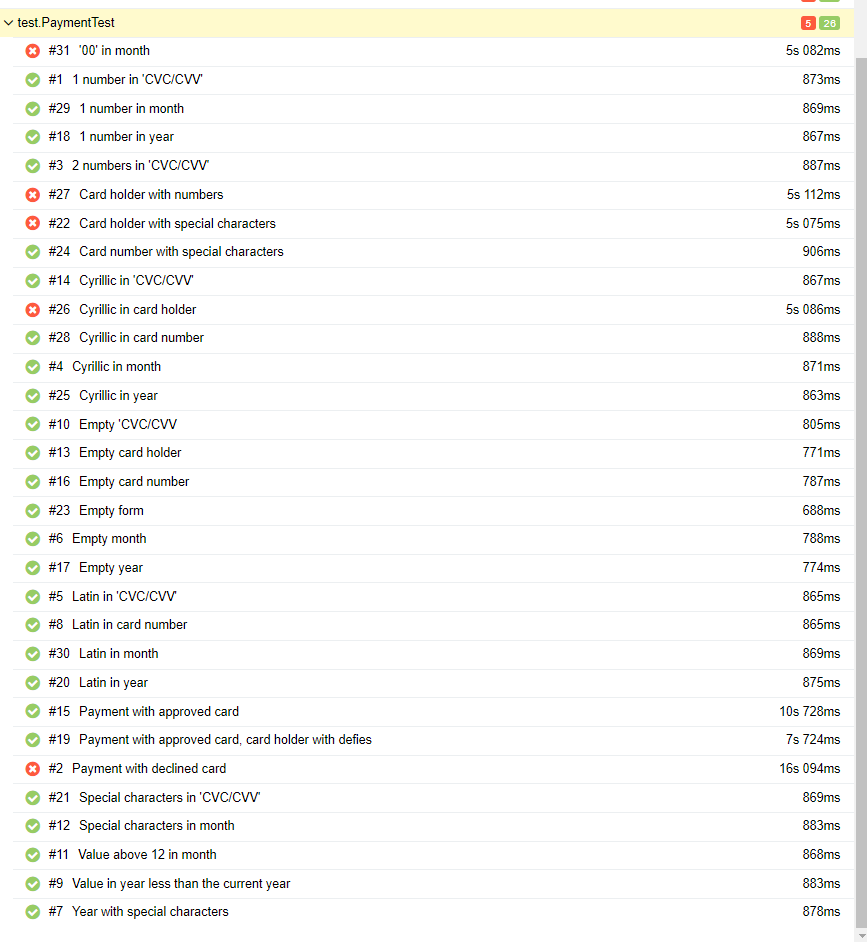
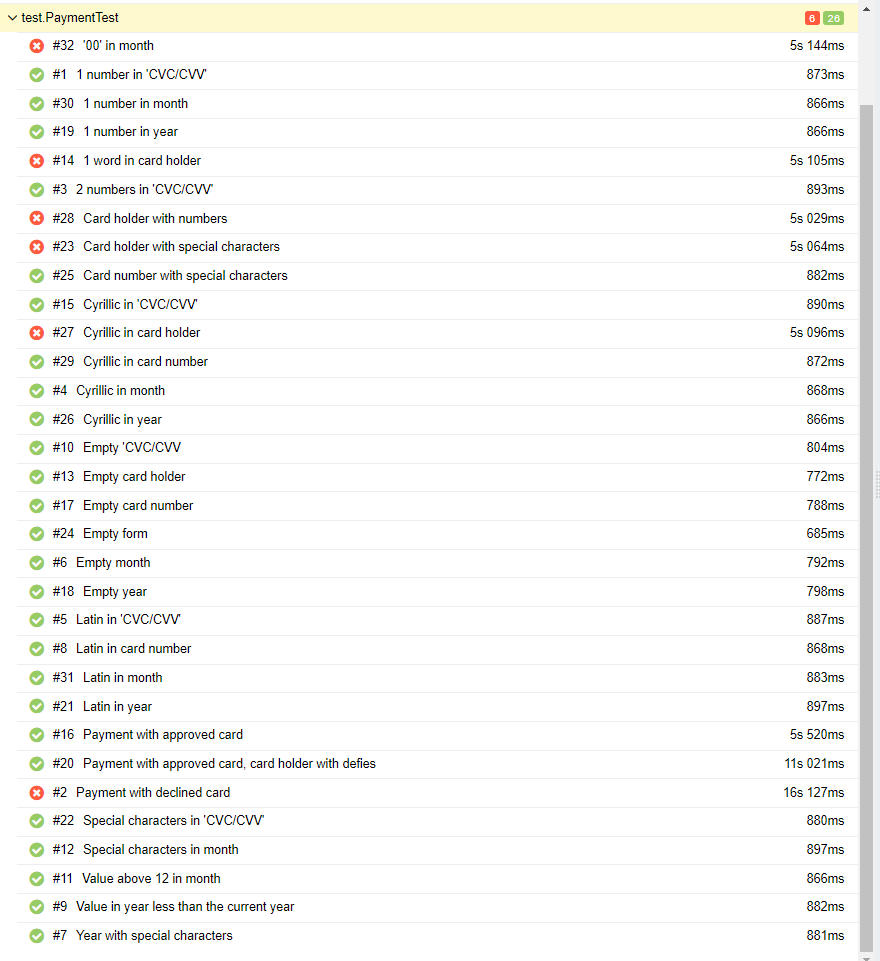
add 1 test, allure report, report.md, summarry.md

Changed region(s): [[0.0, 0.0, 1.0, 1.0]]

diff --git a/src/test/java/test/CreditTest.java b/src/test/java/test/CreditTest.java
@@ -111,6 +111,17 @@ public class CreditTest {
         assertEquals("0", DataBase.getOrderCount());
     }
     @Test
+    @DisplayName("1 word in  card holder")
+    public void With1WordInCardHolder() {
+        val tp = new TourPage();
+        val form = tp.goToCreditPage();
+        form.inputData(DataHelper.getEmptyCardHolder());
+        form.setCardHolder("Ivanov");
+        form.pushContinueButton();
+        form.massageWrongFormat();
+        assertEquals("0", DataBase.getOrderCount());
+    }
+    @Test
     @DisplayName("Card holder with numbers")
     public void WithNumbersInCardHolder() {
         val tp = new TourPage();
@@ -184,7 +195,7 @@ public class CreditTest {
         form.inputData(DataHelper.getEmptyMonthNumber());
         form.setCardMonth("00");
         form.pushContinueButton();
-        form.massageWrongFormat();
+        form.massageWrongCardValidity();
         assertEquals("0", DataBase.getOrderCount());
     }
     @Test

diff --git a/src/test/java/test/PaymentTest.java b/src/test/java/test/PaymentTest.java
@@ -116,6 +116,17 @@ public class PaymentTest {
         form.massageWrongFormat();
         assertEquals("0", DataBase.getOrderCount());
     }
+    @Test
+    @DisplayName("1 word in  card holder")
+    public void With1WordInCardHolder() {
+        val tp = new TourPage();
+        val form = tp.goToBuyPage();
+        form.inputData(DataHelper.getEmptyCardHolder());
+        form.setCardHolder("Ivanov");
+        form.pushContinueButton();
+        form.massageWrongFormat();
+        assertEquals("0", DataBase.getOrderCount());
+    }
 
     @Test
     @DisplayName("Card holder with numbers")
@@ -192,7 +203,7 @@ public class PaymentTest {
         form.inputData(DataHelper.getEmptyMonthNumber());
         form.setCardMonth("00");
         form.pushContinueButton();
-        form.massageWrongFormat();
+        form.massageWrongCardValidity();
         assertEquals("0", DataBase.getOrderCount());
     }
     @Test

diff --git a/documents/Summary.md b/documents/Summary.md
@@ -1,0 +1,22 @@
+# Отчёт по итогам автоматизации
+
+## Запланировано/Сделано
+Было запланировано:
+1. Автоматизировать позитивные и негативные сценарии тестирования работы сервисов покупки тура и покупки тура в кредит.
+1. Протестировать поля форм.
+1. Протестировать поддержку СУБД MySQL и PostgreSQL.
+
+Сделаны всё запланированные тесты.
+
+## Сработавшие риски
+1. Сложности с запуском приложения и подключением к БД.
+1. Отсутствовали уникальные css-селекторы.
+
+
+## Общий итог по времени
+1. Планирование автоматизации тестирования - 19.10 - 21.10 / факт 21.10 (4 часа)
+1. Настройка окружения, написание и отладка автотестов, тестирование - 22.10 - 10.11 / факт 02.11 (20 часов)
+1. Подготовка отчетов о проделанной работе - 11.11 - 17.11 / факт 03.11 (4 часа)
+
+Настройка окружения, написание и отладка автотестов, тестирование - основной проблемой было найти ошибку из-за которой приложение не запускалось с подключением к БД.
+Подготовка тестовой документации оказалась менее времязатратной, чем изначально планировалось.

diff --git a/documents/Plan.md b/documents/Plan.md
@@ -359,7 +359,7 @@
     Нажать кнопку Продолжить
 * Ожидаемый результат: запрос обрабатывается, появляется сообщение "Ошибка! Банк отказал в проведении операции".
 ## Перечень используемых инструментов
-1. IntelliJ IDEA 2022.1.2 (Community Edition) как среда разработки.
+1. IntelliJ IDEA 2022.2 (Community Edition) как среда разработки.
 2. Браузер Chrome - для работы со страницей.
 3. Docker - для контейнеризации СУБД и Node.js.
 4. GitHub - для хранения и демонстрации работы.
@@ -367,7 +367,6 @@
 6. JUnit. Библиотека для написания и запуска авто-тестов.
 7. Gradle - Система управления зависимостями, которая позволит удобно ставить необходимые фреймворки.
 8. Allure - Фреймворк, предназначенный для создания отчетов о выполнении тестов.
-9. AppVeyor - CI для GitHub.
 ## Перечень и описание возможных рисков при автоматизации
 1. Риск появления проблем с настройкой приложения и необходимых БД.
 2. Риск появления проблем с правильной идентификацией полей ввода.

diff --git a/documents/Report.md b/documents/Report.md
@@ -1,0 +1,29 @@
+## Отчёт по итогам тестирования
+
+### Краткое описание
+
+Выполнена автоматизация тестирования комплексного сервиса, взаимодействующего с СУБД и API Банка.
+
+Приложение тестировалось по двум сервисам:
+1. Покупки
+1. Покупки в кредит 
+
+Заявлена поддержка двух СУБД:
+* MySQL
+* PostgreSQL
+
+**Приложение корректно работает на обеих СУБД.**
+
+### Количество тест-кейсов
+Всего выполнено 64 автоматизированных тест-кейсов
+
+### %успешных/не успешных
+* 52 успешных – что составляет 81.25 %
+* 12 не успешных – что составляет 18.75 %
+
+#### Подготовлены отчёты:
+* [Отчёт Allure](https://github.com/pno666/diplom/tree/main/documents/AllureReport)
+
+### Общие рекомендации
+* Устранить выявленные баги. Указаны в [issue](https://github.com/pno666/diplom/issues);
+* Добавить для нажатых кнопок "Купить" и "Купить в кредит" элемент выделения, указывающий на выбранный способа оплаты.
